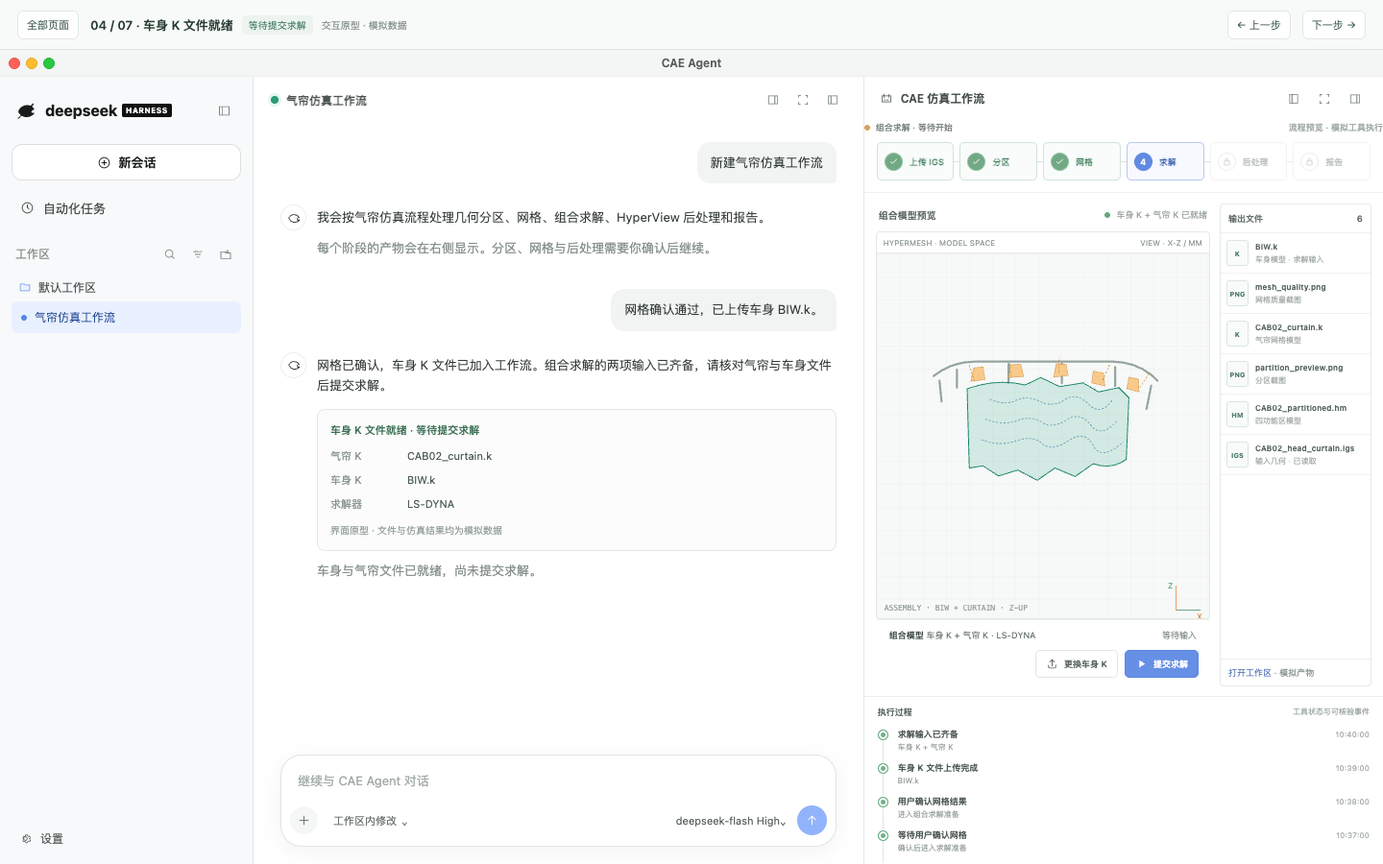
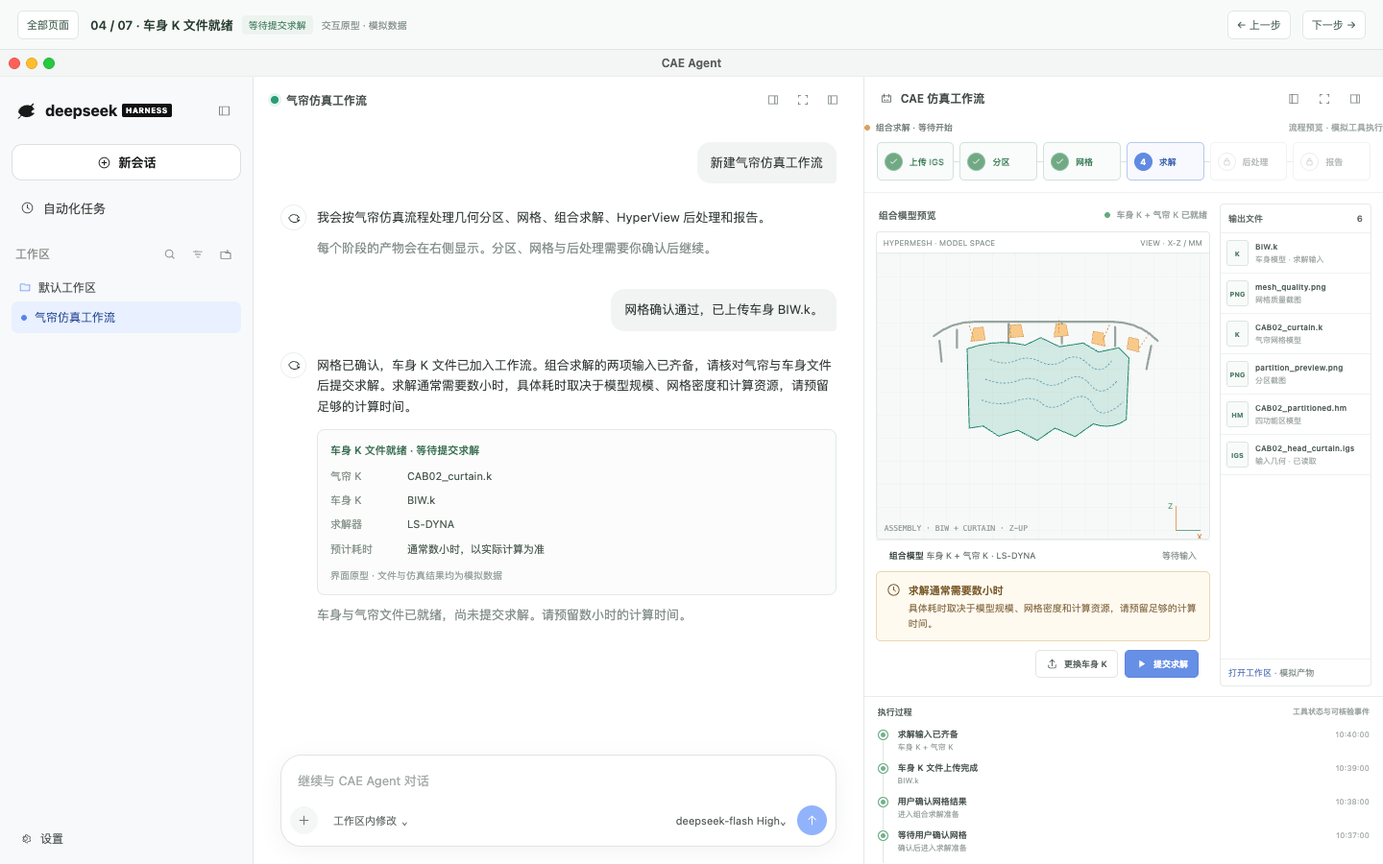
fix: warn users about hours-long solver runs

diff --git a/docs/prototypes/curtain-airbag-workflow/04-body-k-ready.html b/docs/prototypes/curtain-airbag-workflow/04-body-k-ready.html
@@ -187,6 +187,10 @@
     .run-bar.active { display:flex; }
     .run-track { height:3px;flex:1;overflow:hidden;border-radius:2px;background:#e9eeeb; }
     .run-fill { width:0;height:100%;background:#35a78b;transition:width .12s linear; }
+    .solve-notice { flex:0 0 auto;display:flex;align-items:flex-start;gap:8px;margin:2px 0 8px;padding:10px;border:1px solid #ead7b1;border-radius:5px;background:#fffaf0;color:#7a5a2a;line-height:1.55; }
+    .solve-notice svg { flex:0 0 15px;margin-top:1px; }
+    .solve-notice strong { display:block;font-size:11px;font-weight:650; }
+    .solve-notice p { margin:3px 0 0;color:#876d47;font-size:10px; }
     .stage-actions { min-height:39px;display:flex;align-items:center;justify-content:flex-end;gap:7px;padding:0 12px 8px; }
     .action-btn { min-height:29px;display:inline-flex;align-items:center;justify-content:center;gap:6px;padding:0 10px;border:1px solid #e1e6e3;border-radius:5px;background:#fff;color:#59635f;font-size:9px;font-weight:620; }
     .action-btn:hover:not(:disabled) { border-color:#b9c9c2;background:#fafcfb; }
@@ -387,6 +391,7 @@
                 </div>
                 <div class="step-meta"><span><strong id="stageName">上传气帘几何</strong> <span id="stageDescription">支持 .igs / .iges 格式</span></span><span class="meta-state"><i class="live-indicator" id="stageDot" style="display:none"></i><span id="stageState">等待输入</span></span></div>
                 <div class="run-bar" id="runBar"><span id="runLabel">处理中</span><div class="run-track"><div class="run-fill" id="runFill"></div></div><span id="runPercent">0%</span></div>
+                <aside class="solve-notice hidden" id="solveNotice" role="status"><svg width="15" height="15" viewBox="0 0 24 24" fill="none" stroke="currentColor" stroke-width="1.65" stroke-linecap="round" stroke-linejoin="round" aria-hidden="true"><circle cx="12" cy="12" r="9"/><path d="M12 7v5l3 2"/></svg><div><strong id="solveNoticeTitle">求解通常需要数小时</strong><p>具体耗时取决于模型规模、网格密度和计算资源，请预留足够的计算时间。</p></div></aside>
                 <div class="stage-actions" id="stageActions"></div>
               </section>
               <aside class="filelist">
@@ -483,6 +488,9 @@
       $('modeLabel').textContent=state.running?`${step.tool} · ${step.name}执行中`:status==='review'?`${step.name}结果待确认`:i===0?(state.igs?'几何文件已选择':'等待上传几何文件'):status==='done'?(state.status.every(s=>s==='done')?'流程已完成':step.name+'已完成'):status==='needs-file'?'等待车身 K 文件':`${step.name} · ${status==='ready'?'等待开始':'等待前置确认'}`;
       $('modeDot').style.background=state.running?'#5d8ee5':status==='review'?'#d99b52':status==='done'?'#62aa7c':'#d8a25c';
       $('runBar').classList.toggle('active',state.running);
+      $('runLabel').textContent=state.runKind==='solve'?'模拟求解进度':'处理中';
+      $('solveNotice').classList.toggle('hidden',i!==3||status==='done'||status==='locked');
+      $('solveNoticeTitle').textContent=state.running?'求解进行中，通常需要数小时':'求解通常需要数小时';
       renderActions();
     }
     function renderActions(){
@@ -534,12 +542,13 @@
       }
       if(action==='adjust'){$('adjustModal').classList.add('show');$('adjustText').focus()}
       if(action==='approve-mesh'){
-        state.status[2]='done';log('用户确认网格质量','success','车身 K 文件为组合求解必需输入');setCurrent(3,'ready');$('chatStatusCopy').textContent='网格已确认。请上传车身 K 文件，随后可以开始组合求解。';appendAssistant('网格已确认。请在右侧工作流中上传车身 .k 文件。');
+        state.status[2]='done';log('用户确认网格质量','success','车身 K 文件为组合求解必需输入');setCurrent(3,'ready');$('chatStatusCopy').textContent='网格已确认。请上传车身 K 文件，随后可以开始组合求解。求解通常需要数小时，请预留计算时间。';appendAssistant('网格已确认。请在右侧工作流中上传车身 .k 文件。组合求解通常需要数小时，具体耗时取决于模型规模、网格密度和计算资源。');
       }
       if(action==='back-partition'){setCurrent(1,'review')}
       if(action==='choose-body')$('bodyInput').click();
       if(action==='start-solve'){
         if(!state.body){toast('请先上传车身 K 文件');return}
+        $('chatStatusCopy').textContent='组合求解进行中，通常需要数小时，请耐心等待。';appendAssistant('已提交组合求解。求解通常需要数小时，具体耗时取决于模型规模、网格密度和计算资源。可在右侧查看执行进度；本页进度为模拟演示。');
         state.status[3]='running';
         simulate(3,'solve',6700,'done','组合 main.key · LS-DYNA · d3plot 健康检查',()=>{
           file('K',steps[3].file,'车身 + 气帘组合模型');file('D3','d3plot','LS-DYNA 求解结果');
@@ -581,7 +590,7 @@
     $('submitAdjust').addEventListener('click',()=>{const text=$('adjustText').value.trim();if(!text){$('adjustText').focus();return}$('adjustModal').classList.remove('show');state.adjustments++;log('用户提交分区调整','success',text);$('adjustText').value='';simulate(1,'partition',2600,'review','应用调整意见 · 重跑分区 · 更新截图',()=>{file('HM',steps[1].file,'分区更新 v'+(3+state.adjustments));file('PNG','partition_preview_v'+(3+state.adjustments)+'.png','更新后的分区截图');appendAssistant('已按调整意见更新分区。请复核新版截图。')})});
     renderFiles();renderTrace();
 
-    const stagePreview = {"slug": "04-body-k-ready", "title": "车身 K 文件就绪", "badge": "等待提交求解", "current": 3, "status": ["done", "done", "done", "ready", "locked", "locked"], "upto": 3, "user": "网格确认通过，已上传车身 BIW.k。", "message": "网格已确认，车身 K 文件已加入工作流。组合求解的两项输入已齐备，请核对气帘与车身文件后提交求解。", "results": [["气帘 K", "CAB02_curtain.k"], ["车身 K", "BIW.k"], ["求解器", "LS-DYNA"]], "hint": "车身与气帘文件已就绪，尚未提交求解。", "files": [{"type": "K", "name": "BIW.k", "meta": "车身模型 · 求解输入"}, {"type": "PNG", "name": "mesh_quality.png", "meta": "网格质量截图"}, {"type": "K", "name": "CAB02_curtain.k", "meta": "气帘网格模型"}, {"type": "PNG", "name": "partition_preview.png", "meta": "分区截图"}, {"type": "HM", "name": "CAB02_partitioned.hm", "meta": "四功能区模型"}, {"type": "IGS", "name": "CAB02_head_curtain.igs", "meta": "输入几何 · 已读取"}], "traces": [{"text": "求解输入已齐备", "detail": "车身 K + 气帘 K", "kind": "success", "time": "10:40:00"}, {"text": "车身 K 文件上传完成", "detail": "BIW.k", "kind": "success", "time": "10:39:00"}, {"text": "用户确认网格结果", "detail": "进入组合求解准备", "kind": "success", "time": "10:38:00"}, {"text": "等待用户确认网格", "detail": "确认后进入求解准备", "kind": "success", "time": "10:37:00"}, {"text": "HyperMesh MCP · 网格生成完成", "detail": "气帘 K 文件 + 网格截图", "kind": "success", "time": "10:36:00"}, {"text": "用户确认分区结果", "detail": "进入网格阶段", "kind": "success", "time": "10:35:00"}, {"text": "等待用户确认分区", "detail": "确认后才开始网格", "kind": "success", "time": "10:34:00"}, {"text": "分区产物已生成", "detail": ".hm 模型 + 分区截图", "kind": "success", "time": "10:33:00"}, {"text": "HyperMesh MCP · 分区完成", "detail": "四功能区识别完成", "kind": "success", "time": "10:32:00"}, {"text": "几何读取完成", "detail": "轮廓预览已生成", "kind": "success", "time": "10:31:00"}, {"text": "气帘 IGS 文件上传完成", "detail": "CAB02_head_curtain.igs", "kind": "success", "time": "10:30:00"}]};
+    const stagePreview = {"slug": "04-body-k-ready", "title": "车身 K 文件就绪", "badge": "等待提交求解", "current": 3, "status": ["done", "done", "done", "ready", "locked", "locked"], "upto": 3, "user": "网格确认通过，已上传车身 BIW.k。", "message": "网格已确认，车身 K 文件已加入工作流。组合求解的两项输入已齐备，请核对气帘与车身文件后提交求解。求解通常需要数小时，具体耗时取决于模型规模、网格密度和计算资源，请预留足够的计算时间。", "results": [["气帘 K", "CAB02_curtain.k"], ["车身 K", "BIW.k"], ["求解器", "LS-DYNA"], ["预计耗时", "通常数小时，以实际计算为准"]], "hint": "车身与气帘文件已就绪，尚未提交求解。请预留数小时的计算时间。", "files": [{"type": "K", "name": "BIW.k", "meta": "车身模型 · 求解输入"}, {"type": "PNG", "name": "mesh_quality.png", "meta": "网格质量截图"}, {"type": "K", "name": "CAB02_curtain.k", "meta": "气帘网格模型"}, {"type": "PNG", "name": "partition_preview.png", "meta": "分区截图"}, {"type": "HM", "name": "CAB02_partitioned.hm", "meta": "四功能区模型"}, {"type": "IGS", "name": "CAB02_head_curtain.igs", "meta": "输入几何 · 已读取"}], "traces": [{"text": "求解输入已齐备", "detail": "车身 K + 气帘 K", "kind": "success", "time": "10:40:00"}, {"text": "车身 K 文件上传完成", "detail": "BIW.k", "kind": "success", "time": "10:39:00"}, {"text": "用户确认网格结果", "detail": "进入组合求解准备", "kind": "success", "time": "10:38:00"}, {"text": "等待用户确认网格", "detail": "确认后进入求解准备", "kind": "success", "time": "10:37:00"}, {"text": "HyperMesh MCP · 网格生成完成", "detail": "气帘 K 文件 + 网格截图", "kind": "success", "time": "10:36:00"}, {"text": "用户确认分区结果", "detail": "进入网格阶段", "kind": "success", "time": "10:35:00"}, {"text": "等待用户确认分区", "detail": "确认后才开始网格", "kind": "success", "time": "10:34:00"}, {"text": "分区产物已生成", "detail": ".hm 模型 + 分区截图", "kind": "success", "time": "10:33:00"}, {"text": "HyperMesh MCP · 分区完成", "detail": "四功能区识别完成", "kind": "success", "time": "10:32:00"}, {"text": "几何读取完成", "detail": "轮廓预览已生成", "kind": "success", "time": "10:31:00"}, {"text": "气帘 IGS 文件上传完成", "detail": "CAB02_head_curtain.igs", "kind": "success", "time": "10:30:00"}]};
     function initializeStagePreview() {
       activate();
       Object.assign(state, { current:stagePreview.current, status:stagePreview.status.slice(), igs:'CAB02_head_curtain.igs',

diff --git a/docs/prototypes/curtain-airbag-workflow/01-igs-uploaded.html b/docs/prototypes/curtain-airbag-workflow/01-igs-uploaded.html
@@ -187,6 +187,10 @@
     .run-bar.active { display:flex; }
     .run-track { height:3px;flex:1;overflow:hidden;border-radius:2px;background:#e9eeeb; }
     .run-fill { width:0;height:100%;background:#35a78b;transition:width .12s linear; }
+    .solve-notice { flex:0 0 auto;display:flex;align-items:flex-start;gap:8px;margin:2px 0 8px;padding:10px;border:1px solid #ead7b1;border-radius:5px;background:#fffaf0;color:#7a5a2a;line-height:1.55; }
+    .solve-notice svg { flex:0 0 15px;margin-top:1px; }
+    .solve-notice strong { display:block;font-size:11px;font-weight:650; }
+    .solve-notice p { margin:3px 0 0;color:#876d47;font-size:10px; }
     .stage-actions { min-height:39px;display:flex;align-items:center;justify-content:flex-end;gap:7px;padding:0 12px 8px; }
     .action-btn { min-height:29px;display:inline-flex;align-items:center;justify-content:center;gap:6px;padding:0 10px;border:1px solid #e1e6e3;border-radius:5px;background:#fff;color:#59635f;font-size:9px;font-weight:620; }
     .action-btn:hover:not(:disabled) { border-color:#b9c9c2;background:#fafcfb; }
@@ -387,6 +391,7 @@
                 </div>
                 <div class="step-meta"><span><strong id="stageName">上传气帘几何</strong> <span id="stageDescription">支持 .igs / .iges 格式</span></span><span class="meta-state"><i class="live-indicator" id="stageDot" style="display:none"></i><span id="stageState">等待输入</span></span></div>
                 <div class="run-bar" id="runBar"><span id="runLabel">处理中</span><div class="run-track"><div class="run-fill" id="runFill"></div></div><span id="runPercent">0%</span></div>
+                <aside class="solve-notice hidden" id="solveNotice" role="status"><svg width="15" height="15" viewBox="0 0 24 24" fill="none" stroke="currentColor" stroke-width="1.65" stroke-linecap="round" stroke-linejoin="round" aria-hidden="true"><circle cx="12" cy="12" r="9"/><path d="M12 7v5l3 2"/></svg><div><strong id="solveNoticeTitle">求解通常需要数小时</strong><p>具体耗时取决于模型规模、网格密度和计算资源，请预留足够的计算时间。</p></div></aside>
                 <div class="stage-actions" id="stageActions"></div>
               </section>
               <aside class="filelist">
@@ -483,6 +488,9 @@
       $('modeLabel').textContent=state.running?`${step.tool} · ${step.name}执行中`:status==='review'?`${step.name}结果待确认`:i===0?(state.igs?'几何文件已选择':'等待上传几何文件'):status==='done'?(state.status.every(s=>s==='done')?'流程已完成':step.name+'已完成'):status==='needs-file'?'等待车身 K 文件':`${step.name} · ${status==='ready'?'等待开始':'等待前置确认'}`;
       $('modeDot').style.background=state.running?'#5d8ee5':status==='review'?'#d99b52':status==='done'?'#62aa7c':'#d8a25c';
       $('runBar').classList.toggle('active',state.running);
+      $('runLabel').textContent=state.runKind==='solve'?'模拟求解进度':'处理中';
+      $('solveNotice').classList.toggle('hidden',i!==3||status==='done'||status==='locked');
+      $('solveNoticeTitle').textContent=state.running?'求解进行中，通常需要数小时':'求解通常需要数小时';
       renderActions();
     }
     function renderActions(){
@@ -534,12 +542,13 @@
       }
       if(action==='adjust'){$('adjustModal').classList.add('show');$('adjustText').focus()}
       if(action==='approve-mesh'){
-        state.status[2]='done';log('用户确认网格质量','success','车身 K 文件为组合求解必需输入');setCurrent(3,'ready');$('chatStatusCopy').textContent='网格已确认。请上传车身 K 文件，随后可以开始组合求解。';appendAssistant('网格已确认。请在右侧工作流中上传车身 .k 文件。');
+        state.status[2]='done';log('用户确认网格质量','success','车身 K 文件为组合求解必需输入');setCurrent(3,'ready');$('chatStatusCopy').textContent='网格已确认。请上传车身 K 文件，随后可以开始组合求解。求解通常需要数小时，请预留计算时间。';appendAssistant('网格已确认。请在右侧工作流中上传车身 .k 文件。组合求解通常需要数小时，具体耗时取决于模型规模、网格密度和计算资源。');
       }
       if(action==='back-partition'){setCurrent(1,'review')}
       if(action==='choose-body')$('bodyInput').click();
       if(action==='start-solve'){
         if(!state.body){toast('请先上传车身 K 文件');return}
+        $('chatStatusCopy').textContent='组合求解进行中，通常需要数小时，请耐心等待。';appendAssistant('已提交组合求解。求解通常需要数小时，具体耗时取决于模型规模、网格密度和计算资源。可在右侧查看执行进度；本页进度为模拟演示。');
         state.status[3]='running';
         simulate(3,'solve',6700,'done','组合 main.key · LS-DYNA · d3plot 健康检查',()=>{
           file('K',steps[3].file,'车身 + 气帘组合模型');file('D3','d3plot','LS-DYNA 求解结果');

diff --git a/docs/prototypes/curtain-airbag-workflow/02-partition-completed.html b/docs/prototypes/curtain-airbag-workflow/02-partition-completed.html
@@ -187,6 +187,10 @@
     .run-bar.active { display:flex; }
     .run-track { height:3px;flex:1;overflow:hidden;border-radius:2px;background:#e9eeeb; }
     .run-fill { width:0;height:100%;background:#35a78b;transition:width .12s linear; }
+    .solve-notice { flex:0 0 auto;display:flex;align-items:flex-start;gap:8px;margin:2px 0 8px;padding:10px;border:1px solid #ead7b1;border-radius:5px;background:#fffaf0;color:#7a5a2a;line-height:1.55; }
+    .solve-notice svg { flex:0 0 15px;margin-top:1px; }
+    .solve-notice strong { display:block;font-size:11px;font-weight:650; }
+    .solve-notice p { margin:3px 0 0;color:#876d47;font-size:10px; }
     .stage-actions { min-height:39px;display:flex;align-items:center;justify-content:flex-end;gap:7px;padding:0 12px 8px; }
     .action-btn { min-height:29px;display:inline-flex;align-items:center;justify-content:center;gap:6px;padding:0 10px;border:1px solid #e1e6e3;border-radius:5px;background:#fff;color:#59635f;font-size:9px;font-weight:620; }
     .action-btn:hover:not(:disabled) { border-color:#b9c9c2;background:#fafcfb; }
@@ -387,6 +391,7 @@
                 </div>
                 <div class="step-meta"><span><strong id="stageName">上传气帘几何</strong> <span id="stageDescription">支持 .igs / .iges 格式</span></span><span class="meta-state"><i class="live-indicator" id="stageDot" style="display:none"></i><span id="stageState">等待输入</span></span></div>
                 <div class="run-bar" id="runBar"><span id="runLabel">处理中</span><div class="run-track"><div class="run-fill" id="runFill"></div></div><span id="runPercent">0%</span></div>
+                <aside class="solve-notice hidden" id="solveNotice" role="status"><svg width="15" height="15" viewBox="0 0 24 24" fill="none" stroke="currentColor" stroke-width="1.65" stroke-linecap="round" stroke-linejoin="round" aria-hidden="true"><circle cx="12" cy="12" r="9"/><path d="M12 7v5l3 2"/></svg><div><strong id="solveNoticeTitle">求解通常需要数小时</strong><p>具体耗时取决于模型规模、网格密度和计算资源，请预留足够的计算时间。</p></div></aside>
                 <div class="stage-actions" id="stageActions"></div>
               </section>
               <aside class="filelist">
@@ -483,6 +488,9 @@
       $('modeLabel').textContent=state.running?`${step.tool} · ${step.name}执行中`:status==='review'?`${step.name}结果待确认`:i===0?(state.igs?'几何文件已选择':'等待上传几何文件'):status==='done'?(state.status.every(s=>s==='done')?'流程已完成':step.name+'已完成'):status==='needs-file'?'等待车身 K 文件':`${step.name} · ${status==='ready'?'等待开始':'等待前置确认'}`;
       $('modeDot').style.background=state.running?'#5d8ee5':status==='review'?'#d99b52':status==='done'?'#62aa7c':'#d8a25c';
       $('runBar').classList.toggle('active',state.running);
+      $('runLabel').textContent=state.runKind==='solve'?'模拟求解进度':'处理中';
+      $('solveNotice').classList.toggle('hidden',i!==3||status==='done'||status==='locked');
+      $('solveNoticeTitle').textContent=state.running?'求解进行中，通常需要数小时':'求解通常需要数小时';
       renderActions();
     }
     function renderActions(){
@@ -534,12 +542,13 @@
       }
       if(action==='adjust'){$('adjustModal').classList.add('show');$('adjustText').focus()}
       if(action==='approve-mesh'){
-        state.status[2]='done';log('用户确认网格质量','success','车身 K 文件为组合求解必需输入');setCurrent(3,'ready');$('chatStatusCopy').textContent='网格已确认。请上传车身 K 文件，随后可以开始组合求解。';appendAssistant('网格已确认。请在右侧工作流中上传车身 .k 文件。');
+        state.status[2]='done';log('用户确认网格质量','success','车身 K 文件为组合求解必需输入');setCurrent(3,'ready');$('chatStatusCopy').textContent='网格已确认。请上传车身 K 文件，随后可以开始组合求解。求解通常需要数小时，请预留计算时间。';appendAssistant('网格已确认。请在右侧工作流中上传车身 .k 文件。组合求解通常需要数小时，具体耗时取决于模型规模、网格密度和计算资源。');
       }
       if(action==='back-partition'){setCurrent(1,'review')}
       if(action==='choose-body')$('bodyInput').click();
       if(action==='start-solve'){
         if(!state.body){toast('请先上传车身 K 文件');return}
+        $('chatStatusCopy').textContent='组合求解进行中，通常需要数小时，请耐心等待。';appendAssistant('已提交组合求解。求解通常需要数小时，具体耗时取决于模型规模、网格密度和计算资源。可在右侧查看执行进度；本页进度为模拟演示。');
         state.status[3]='running';
         simulate(3,'solve',6700,'done','组合 main.key · LS-DYNA · d3plot 健康检查',()=>{
           file('K',steps[3].file,'车身 + 气帘组合模型');file('D3','d3plot','LS-DYNA 求解结果');

diff --git a/docs/prototypes/curtain-airbag-workflow/03-mesh-completed.html b/docs/prototypes/curtain-airbag-workflow/03-mesh-completed.html
@@ -187,6 +187,10 @@
     .run-bar.active { display:flex; }
     .run-track { height:3px;flex:1;overflow:hidden;border-radius:2px;background:#e9eeeb; }
     .run-fill { width:0;height:100%;background:#35a78b;transition:width .12s linear; }
+    .solve-notice { flex:0 0 auto;display:flex;align-items:flex-start;gap:8px;margin:2px 0 8px;padding:10px;border:1px solid #ead7b1;border-radius:5px;background:#fffaf0;color:#7a5a2a;line-height:1.55; }
+    .solve-notice svg { flex:0 0 15px;margin-top:1px; }
+    .solve-notice strong { display:block;font-size:11px;font-weight:650; }
+    .solve-notice p { margin:3px 0 0;color:#876d47;font-size:10px; }
     .stage-actions { min-height:39px;display:flex;align-items:center;justify-content:flex-end;gap:7px;padding:0 12px 8px; }
     .action-btn { min-height:29px;display:inline-flex;align-items:center;justify-content:center;gap:6px;padding:0 10px;border:1px solid #e1e6e3;border-radius:5px;background:#fff;color:#59635f;font-size:9px;font-weight:620; }
     .action-btn:hover:not(:disabled) { border-color:#b9c9c2;background:#fafcfb; }
@@ -387,6 +391,7 @@
                 </div>
                 <div class="step-meta"><span><strong id="stageName">上传气帘几何</strong> <span id="stageDescription">支持 .igs / .iges 格式</span></span><span class="meta-state"><i class="live-indicator" id="stageDot" style="display:none"></i><span id="stageState">等待输入</span></span></div>
                 <div class="run-bar" id="runBar"><span id="runLabel">处理中</span><div class="run-track"><div class="run-fill" id="runFill"></div></div><span id="runPercent">0%</span></div>
+                <aside class="solve-notice hidden" id="solveNotice" role="status"><svg width="15" height="15" viewBox="0 0 24 24" fill="none" stroke="currentColor" stroke-width="1.65" stroke-linecap="round" stroke-linejoin="round" aria-hidden="true"><circle cx="12" cy="12" r="9"/><path d="M12 7v5l3 2"/></svg><div><strong id="solveNoticeTitle">求解通常需要数小时</strong><p>具体耗时取决于模型规模、网格密度和计算资源，请预留足够的计算时间。</p></div></aside>
                 <div class="stage-actions" id="stageActions"></div>
               </section>
               <aside class="filelist">
@@ -483,6 +488,9 @@
       $('modeLabel').textContent=state.running?`${step.tool} · ${step.name}执行中`:status==='review'?`${step.name}结果待确认`:i===0?(state.igs?'几何文件已选择':'等待上传几何文件'):status==='done'?(state.status.every(s=>s==='done')?'流程已完成':step.name+'已完成'):status==='needs-file'?'等待车身 K 文件':`${step.name} · ${status==='ready'?'等待开始':'等待前置确认'}`;
       $('modeDot').style.background=state.running?'#5d8ee5':status==='review'?'#d99b52':status==='done'?'#62aa7c':'#d8a25c';
       $('runBar').classList.toggle('active',state.running);
+      $('runLabel').textContent=state.runKind==='solve'?'模拟求解进度':'处理中';
+      $('solveNotice').classList.toggle('hidden',i!==3||status==='done'||status==='locked');
+      $('solveNoticeTitle').textContent=state.running?'求解进行中，通常需要数小时':'求解通常需要数小时';
       renderActions();
     }
     function renderActions(){
@@ -534,12 +542,13 @@
       }
       if(action==='adjust'){$('adjustModal').classList.add('show');$('adjustText').focus()}
       if(action==='approve-mesh'){
-        state.status[2]='done';log('用户确认网格质量','success','车身 K 文件为组合求解必需输入');setCurrent(3,'ready');$('chatStatusCopy').textContent='网格已确认。请上传车身 K 文件，随后可以开始组合求解。';appendAssistant('网格已确认。请在右侧工作流中上传车身 .k 文件。');
+        state.status[2]='done';log('用户确认网格质量','success','车身 K 文件为组合求解必需输入');setCurrent(3,'ready');$('chatStatusCopy').textContent='网格已确认。请上传车身 K 文件，随后可以开始组合求解。求解通常需要数小时，请预留计算时间。';appendAssistant('网格已确认。请在右侧工作流中上传车身 .k 文件。组合求解通常需要数小时，具体耗时取决于模型规模、网格密度和计算资源。');
       }
       if(action==='back-partition'){setCurrent(1,'review')}
       if(action==='choose-body')$('bodyInput').click();
       if(action==='start-solve'){
         if(!state.body){toast('请先上传车身 K 文件');return}
+        $('chatStatusCopy').textContent='组合求解进行中，通常需要数小时，请耐心等待。';appendAssistant('已提交组合求解。求解通常需要数小时，具体耗时取决于模型规模、网格密度和计算资源。可在右侧查看执行进度；本页进度为模拟演示。');
         state.status[3]='running';
         simulate(3,'solve',6700,'done','组合 main.key · LS-DYNA · d3plot 健康检查',()=>{
           file('K',steps[3].file,'车身 + 气帘组合模型');file('D3','d3plot','LS-DYNA 求解结果');

diff --git a/docs/prototypes/curtain-airbag-workflow/05-solve-completed.html b/docs/prototypes/curtain-airbag-workflow/05-solve-completed.html
@@ -187,6 +187,10 @@
     .run-bar.active { display:flex; }
     .run-track { height:3px;flex:1;overflow:hidden;border-radius:2px;background:#e9eeeb; }
     .run-fill { width:0;height:100%;background:#35a78b;transition:width .12s linear; }
+    .solve-notice { flex:0 0 auto;display:flex;align-items:flex-start;gap:8px;margin:2px 0 8px;padding:10px;border:1px solid #ead7b1;border-radius:5px;background:#fffaf0;color:#7a5a2a;line-height:1.55; }
+    .solve-notice svg { flex:0 0 15px;margin-top:1px; }
+    .solve-notice strong { display:block;font-size:11px;font-weight:650; }
+    .solve-notice p { margin:3px 0 0;color:#876d47;font-size:10px; }
     .stage-actions { min-height:39px;display:flex;align-items:center;justify-content:flex-end;gap:7px;padding:0 12px 8px; }
     .action-btn { min-height:29px;display:inline-flex;align-items:center;justify-content:center;gap:6px;padding:0 10px;border:1px solid #e1e6e3;border-radius:5px;background:#fff;color:#59635f;font-size:9px;font-weight:620; }
     .action-btn:hover:not(:disabled) { border-color:#b9c9c2;background:#fafcfb; }
@@ -387,6 +391,7 @@
                 </div>
                 <div class="step-meta"><span><strong id="stageName">上传气帘几何</strong> <span id="stageDescription">支持 .igs / .iges 格式</span></span><span class="meta-state"><i class="live-indicator" id="stageDot" style="display:none"></i><span id="stageState">等待输入</span></span></div>
                 <div class="run-bar" id="runBar"><span id="runLabel">处理中</span><div class="run-track"><div class="run-fill" id="runFill"></div></div><span id="runPercent">0%</span></div>
+                <aside class="solve-notice hidden" id="solveNotice" role="status"><svg width="15" height="15" viewBox="0 0 24 24" fill="none" stroke="currentColor" stroke-width="1.65" stroke-linecap="round" stroke-linejoin="round" aria-hidden="true"><circle cx="12" cy="12" r="9"/><path d="M12 7v5l3 2"/></svg><div><strong id="solveNoticeTitle">求解通常需要数小时</strong><p>具体耗时取决于模型规模、网格密度和计算资源，请预留足够的计算时间。</p></div></aside>
                 <div class="stage-actions" id="stageActions"></div>
               </section>
               <aside class="filelist">
@@ -483,6 +488,9 @@
       $('modeLabel').textContent=state.running?`${step.tool} · ${step.name}执行中`:status==='review'?`${step.name}结果待确认`:i===0?(state.igs?'几何文件已选择':'等待上传几何文件'):status==='done'?(state.status.every(s=>s==='done')?'流程已完成':step.name+'已完成'):status==='needs-file'?'等待车身 K 文件':`${step.name} · ${status==='ready'?'等待开始':'等待前置确认'}`;
       $('modeDot').style.background=state.running?'#5d8ee5':status==='review'?'#d99b52':status==='done'?'#62aa7c':'#d8a25c';
       $('runBar').classList.toggle('active',state.running);
+      $('runLabel').textContent=state.runKind==='solve'?'模拟求解进度':'处理中';
+      $('solveNotice').classList.toggle('hidden',i!==3||status==='done'||status==='locked');
+      $('solveNoticeTitle').textContent=state.running?'求解进行中，通常需要数小时':'求解通常需要数小时';
       renderActions();
     }
     function renderActions(){
@@ -534,12 +542,13 @@
       }
       if(action==='adjust'){$('adjustModal').classList.add('show');$('adjustText').focus()}
       if(action==='approve-mesh'){
-        state.status[2]='done';log('用户确认网格质量','success','车身 K 文件为组合求解必需输入');setCurrent(3,'ready');$('chatStatusCopy').textContent='网格已确认。请上传车身 K 文件，随后可以开始组合求解。';appendAssistant('网格已确认。请在右侧工作流中上传车身 .k 文件。');
+        state.status[2]='done';log('用户确认网格质量','success','车身 K 文件为组合求解必需输入');setCurrent(3,'ready');$('chatStatusCopy').textContent='网格已确认。请上传车身 K 文件，随后可以开始组合求解。求解通常需要数小时，请预留计算时间。';appendAssistant('网格已确认。请在右侧工作流中上传车身 .k 文件。组合求解通常需要数小时，具体耗时取决于模型规模、网格密度和计算资源。');
       }
       if(action==='back-partition'){setCurrent(1,'review')}
       if(action==='choose-body')$('bodyInput').click();
       if(action==='start-solve'){
         if(!state.body){toast('请先上传车身 K 文件');return}
+        $('chatStatusCopy').textContent='组合求解进行中，通常需要数小时，请耐心等待。';appendAssistant('已提交组合求解。求解通常需要数小时，具体耗时取决于模型规模、网格密度和计算资源。可在右侧查看执行进度；本页进度为模拟演示。');
         state.status[3]='running';
         simulate(3,'solve',6700,'done','组合 main.key · LS-DYNA · d3plot 健康检查',()=>{
           file('K',steps[3].file,'车身 + 气帘组合模型');file('D3','d3plot','LS-DYNA 求解结果');

diff --git a/docs/prototypes/curtain-airbag-workflow/06-postprocess-completed.html b/docs/prototypes/curtain-airbag-workflow/06-postprocess-completed.html
@@ -187,6 +187,10 @@
     .run-bar.active { display:flex; }
     .run-track { height:3px;flex:1;overflow:hidden;border-radius:2px;background:#e9eeeb; }
     .run-fill { width:0;height:100%;background:#35a78b;transition:width .12s linear; }
+    .solve-notice { flex:0 0 auto;display:flex;align-items:flex-start;gap:8px;margin:2px 0 8px;padding:10px;border:1px solid #ead7b1;border-radius:5px;background:#fffaf0;color:#7a5a2a;line-height:1.55; }
+    .solve-notice svg { flex:0 0 15px;margin-top:1px; }
+    .solve-notice strong { display:block;font-size:11px;font-weight:650; }
+    .solve-notice p { margin:3px 0 0;color:#876d47;font-size:10px; }
     .stage-actions { min-height:39px;display:flex;align-items:center;justify-content:flex-end;gap:7px;padding:0 12px 8px; }
     .action-btn { min-height:29px;display:inline-flex;align-items:center;justify-content:center;gap:6px;padding:0 10px;border:1px solid #e1e6e3;border-radius:5px;background:#fff;color:#59635f;font-size:9px;font-weight:620; }
     .action-btn:hover:not(:disabled) { border-color:#b9c9c2;background:#fafcfb; }
@@ -387,6 +391,7 @@
                 </div>
                 <div class="step-meta"><span><strong id="stageName">上传气帘几何</strong> <span id="stageDescription">支持 .igs / .iges 格式</span></span><span class="meta-state"><i class="live-indicator" id="stageDot" style="display:none"></i><span id="stageState">等待输入</span></span></div>
                 <div class="run-bar" id="runBar"><span id="runLabel">处理中</span><div class="run-track"><div class="run-fill" id="runFill"></div></div><span id="runPercent">0%</span></div>
+                <aside class="solve-notice hidden" id="solveNotice" role="status"><svg width="15" height="15" viewBox="0 0 24 24" fill="none" stroke="currentColor" stroke-width="1.65" stroke-linecap="round" stroke-linejoin="round" aria-hidden="true"><circle cx="12" cy="12" r="9"/><path d="M12 7v5l3 2"/></svg><div><strong id="solveNoticeTitle">求解通常需要数小时</strong><p>具体耗时取决于模型规模、网格密度和计算资源，请预留足够的计算时间。</p></div></aside>
                 <div class="stage-actions" id="stageActions"></div>
               </section>
               <aside class="filelist">
@@ -483,6 +488,9 @@
       $('modeLabel').textContent=state.running?`${step.tool} · ${step.name}执行中`:status==='review'?`${step.name}结果待确认`:i===0?(state.igs?'几何文件已选择':'等待上传几何文件'):status==='done'?(state.status.every(s=>s==='done')?'流程已完成':step.name+'已完成'):status==='needs-file'?'等待车身 K 文件':`${step.name} · ${status==='ready'?'等待开始':'等待前置确认'}`;
       $('modeDot').style.background=state.running?'#5d8ee5':status==='review'?'#d99b52':status==='done'?'#62aa7c':'#d8a25c';
       $('runBar').classList.toggle('active',state.running);
+      $('runLabel').textContent=state.runKind==='solve'?'模拟求解进度':'处理中';
+      $('solveNotice').classList.toggle('hidden',i!==3||status==='done'||status==='locked');
+      $('solveNoticeTitle').textContent=state.running?'求解进行中，通常需要数小时':'求解通常需要数小时';
       renderActions();
     }
     function renderActions(){
@@ -534,12 +542,13 @@
       }
       if(action==='adjust'){$('adjustModal').classList.add('show');$('adjustText').focus()}
       if(action==='approve-mesh'){
-        state.status[2]='done';log('用户确认网格质量','success','车身 K 文件为组合求解必需输入');setCurrent(3,'ready');$('chatStatusCopy').textContent='网格已确认。请上传车身 K 文件，随后可以开始组合求解。';appendAssistant('网格已确认。请在右侧工作流中上传车身 .k 文件。');
+        state.status[2]='done';log('用户确认网格质量','success','车身 K 文件为组合求解必需输入');setCurrent(3,'ready');$('chatStatusCopy').textContent='网格已确认。请上传车身 K 文件，随后可以开始组合求解。求解通常需要数小时，请预留计算时间。';appendAssistant('网格已确认。请在右侧工作流中上传车身 .k 文件。组合求解通常需要数小时，具体耗时取决于模型规模、网格密度和计算资源。');
       }
       if(action==='back-partition'){setCurrent(1,'review')}
       if(action==='choose-body')$('bodyInput').click();
       if(action==='start-solve'){
         if(!state.body){toast('请先上传车身 K 文件');return}
+        $('chatStatusCopy').textContent='组合求解进行中，通常需要数小时，请耐心等待。';appendAssistant('已提交组合求解。求解通常需要数小时，具体耗时取决于模型规模、网格密度和计算资源。可在右侧查看执行进度；本页进度为模拟演示。');
         state.status[3]='running';
         simulate(3,'solve',6700,'done','组合 main.key · LS-DYNA · d3plot 健康检查',()=>{
           file('K',steps[3].file,'车身 + 气帘组合模型');file('D3','d3plot','LS-DYNA 求解结果');

diff --git a/docs/prototypes/curtain-airbag-workflow/07-report-completed.html b/docs/prototypes/curtain-airbag-workflow/07-report-completed.html
@@ -187,6 +187,10 @@
     .run-bar.active { display:flex; }
     .run-track { height:3px;flex:1;overflow:hidden;border-radius:2px;background:#e9eeeb; }
     .run-fill { width:0;height:100%;background:#35a78b;transition:width .12s linear; }
+    .solve-notice { flex:0 0 auto;display:flex;align-items:flex-start;gap:8px;margin:2px 0 8px;padding:10px;border:1px solid #ead7b1;border-radius:5px;background:#fffaf0;color:#7a5a2a;line-height:1.55; }
+    .solve-notice svg { flex:0 0 15px;margin-top:1px; }
+    .solve-notice strong { display:block;font-size:11px;font-weight:650; }
+    .solve-notice p { margin:3px 0 0;color:#876d47;font-size:10px; }
     .stage-actions { min-height:39px;display:flex;align-items:center;justify-content:flex-end;gap:7px;padding:0 12px 8px; }
     .action-btn { min-height:29px;display:inline-flex;align-items:center;justify-content:center;gap:6px;padding:0 10px;border:1px solid #e1e6e3;border-radius:5px;background:#fff;color:#59635f;font-size:9px;font-weight:620; }
     .action-btn:hover:not(:disabled) { border-color:#b9c9c2;background:#fafcfb; }
@@ -387,6 +391,7 @@
                 </div>
                 <div class="step-meta"><span><strong id="stageName">上传气帘几何</strong> <span id="stageDescription">支持 .igs / .iges 格式</span></span><span class="meta-state"><i class="live-indicator" id="stageDot" style="display:none"></i><span id="stageState">等待输入</span></span></div>
                 <div class="run-bar" id="runBar"><span id="runLabel">处理中</span><div class="run-track"><div class="run-fill" id="runFill"></div></div><span id="runPercent">0%</span></div>
+                <aside class="solve-notice hidden" id="solveNotice" role="status"><svg width="15" height="15" viewBox="0 0 24 24" fill="none" stroke="currentColor" stroke-width="1.65" stroke-linecap="round" stroke-linejoin="round" aria-hidden="true"><circle cx="12" cy="12" r="9"/><path d="M12 7v5l3 2"/></svg><div><strong id="solveNoticeTitle">求解通常需要数小时</strong><p>具体耗时取决于模型规模、网格密度和计算资源，请预留足够的计算时间。</p></div></aside>
                 <div class="stage-actions" id="stageActions"></div>
               </section>
               <aside class="filelist">
@@ -483,6 +488,9 @@
       $('modeLabel').textContent=state.running?`${step.tool} · ${step.name}执行中`:status==='review'?`${step.name}结果待确认`:i===0?(state.igs?'几何文件已选择':'等待上传几何文件'):status==='done'?(state.status.every(s=>s==='done')?'流程已完成':step.name+'已完成'):status==='needs-file'?'等待车身 K 文件':`${step.name} · ${status==='ready'?'等待开始':'等待前置确认'}`;
       $('modeDot').style.background=state.running?'#5d8ee5':status==='review'?'#d99b52':status==='done'?'#62aa7c':'#d8a25c';
       $('runBar').classList.toggle('active',state.running);
+      $('runLabel').textContent=state.runKind==='solve'?'模拟求解进度':'处理中';
+      $('solveNotice').classList.toggle('hidden',i!==3||status==='done'||status==='locked');
+      $('solveNoticeTitle').textContent=state.running?'求解进行中，通常需要数小时':'求解通常需要数小时';
       renderActions();
     }
     function renderActions(){
@@ -534,12 +542,13 @@
       }
       if(action==='adjust'){$('adjustModal').classList.add('show');$('adjustText').focus()}
       if(action==='approve-mesh'){
-        state.status[2]='done';log('用户确认网格质量','success','车身 K 文件为组合求解必需输入');setCurrent(3,'ready');$('chatStatusCopy').textContent='网格已确认。请上传车身 K 文件，随后可以开始组合求解。';appendAssistant('网格已确认。请在右侧工作流中上传车身 .k 文件。');
+        state.status[2]='done';log('用户确认网格质量','success','车身 K 文件为组合求解必需输入');setCurrent(3,'ready');$('chatStatusCopy').textContent='网格已确认。请上传车身 K 文件，随后可以开始组合求解。求解通常需要数小时，请预留计算时间。';appendAssistant('网格已确认。请在右侧工作流中上传车身 .k 文件。组合求解通常需要数小时，具体耗时取决于模型规模、网格密度和计算资源。');
       }
       if(action==='back-partition'){setCurrent(1,'review')}
       if(action==='choose-body')$('bodyInput').click();
       if(action==='start-solve'){
         if(!state.body){toast('请先上传车身 K 文件');return}
+        $('chatStatusCopy').textContent='组合求解进行中，通常需要数小时，请耐心等待。';appendAssistant('已提交组合求解。求解通常需要数小时，具体耗时取决于模型规模、网格密度和计算资源。可在右侧查看执行进度；本页进度为模拟演示。');
         state.status[3]='running';
         simulate(3,'solve',6700,'done','组合 main.key · LS-DYNA · d3plot 健康检查',()=>{
           file('K',steps[3].file,'车身 + 气帘组合模型');file('D3','d3plot','LS-DYNA 求解结果');

diff --git a/docs/prototypes/curtain-airbag-workflow/interactive.html b/docs/prototypes/curtain-airbag-workflow/interactive.html
@@ -187,6 +187,10 @@
     .run-bar.active { display:flex; }
     .run-track { height:3px;flex:1;overflow:hidden;border-radius:2px;background:#e9eeeb; }
     .run-fill { width:0;height:100%;background:#35a78b;transition:width .12s linear; }
+    .solve-notice { flex:0 0 auto;display:flex;align-items:flex-start;gap:8px;margin:2px 0 8px;padding:10px;border:1px solid #ead7b1;border-radius:5px;background:#fffaf0;color:#7a5a2a;line-height:1.55; }
+    .solve-notice svg { flex:0 0 15px;margin-top:1px; }
+    .solve-notice strong { display:block;font-size:11px;font-weight:650; }
+    .solve-notice p { margin:3px 0 0;color:#876d47;font-size:10px; }
     .stage-actions { min-height:39px;display:flex;align-items:center;justify-content:flex-end;gap:7px;padding:0 12px 8px; }
     .action-btn { min-height:29px;display:inline-flex;align-items:center;justify-content:center;gap:6px;padding:0 10px;border:1px solid #e1e6e3;border-radius:5px;background:#fff;color:#59635f;font-size:9px;font-weight:620; }
     .action-btn:hover:not(:disabled) { border-color:#b9c9c2;background:#fafcfb; }
@@ -339,6 +343,7 @@
                 </div>
                 <div class="step-meta"><span><strong id="stageName">上传气帘几何</strong> <span id="stageDescription">支持 .igs / .iges 格式</span></span><span class="meta-state"><i class="live-indicator" id="stageDot" style="display:none"></i><span id="stageState">等待输入</span></span></div>
                 <div class="run-bar" id="runBar"><span id="runLabel">处理中</span><div class="run-track"><div class="run-fill" id="runFill"></div></div><span id="runPercent">0%</span></div>
+                <aside class="solve-notice hidden" id="solveNotice" role="status"><svg width="15" height="15" viewBox="0 0 24 24" fill="none" stroke="currentColor" stroke-width="1.65" stroke-linecap="round" stroke-linejoin="round" aria-hidden="true"><circle cx="12" cy="12" r="9"/><path d="M12 7v5l3 2"/></svg><div><strong id="solveNoticeTitle">求解通常需要数小时</strong><p>具体耗时取决于模型规模、网格密度和计算资源，请预留足够的计算时间。</p></div></aside>
                 <div class="stage-actions" id="stageActions"></div>
               </section>
               <aside class="filelist">
@@ -435,6 +440,9 @@
       $('modeLabel').textContent=state.running?`${step.tool} · ${step.name}执行中`:status==='review'?`${step.name}结果待确认`:i===0?(state.igs?'几何文件已选择':'等待上传几何文件'):status==='done'?'流程已完成':status==='needs-file'?'等待车身 K 文件':`${step.name} · ${status==='ready'?'等待开始':'等待前置确认'}`;
       $('modeDot').style.background=state.running?'#5d8ee5':status==='review'?'#d99b52':status==='done'?'#62aa7c':'#d8a25c';
       $('runBar').classList.toggle('active',state.running);
+      $('runLabel').textContent=state.runKind==='solve'?'模拟求解进度':'处理中';
+      $('solveNotice').classList.toggle('hidden',i!==3||status==='done'||status==='locked');
+      $('solveNoticeTitle').textContent=state.running?'求解进行中，通常需要数小时':'求解通常需要数小时';
       renderActions();
     }
     function renderActions(){
@@ -486,12 +494,13 @@
       }
       if(action==='adjust'){$('adjustModal').classList.add('show');$('adjustText').focus()}
       if(action==='approve-mesh'){
-        state.status[2]='done';log('用户确认网格质量','success','车身 K 文件为组合求解必需输入');setCurrent(3,'ready');$('chatStatusCopy').textContent='网格已确认。请上传车身 K 文件，随后可以开始组合求解。';appendAssistant('网格已确认。请在右侧工作流中上传车身 .k 文件。');
+        state.status[2]='done';log('用户确认网格质量','success','车身 K 文件为组合求解必需输入');setCurrent(3,'ready');$('chatStatusCopy').textContent='网格已确认。请上传车身 K 文件，随后可以开始组合求解。求解通常需要数小时，请预留计算时间。';appendAssistant('网格已确认。请在右侧工作流中上传车身 .k 文件。组合求解通常需要数小时，具体耗时取决于模型规模、网格密度和计算资源。');
       }
       if(action==='back-partition'){setCurrent(1,'review')}
       if(action==='choose-body')$('bodyInput').click();
       if(action==='start-solve'){
         if(!state.body){toast('请先上传车身 K 文件');return}
+        $('chatStatusCopy').textContent='组合求解进行中，通常需要数小时，请耐心等待。';appendAssistant('已提交组合求解。求解通常需要数小时，具体耗时取决于模型规模、网格密度和计算资源。可在右侧查看执行进度；本页进度为模拟演示。');
         state.status[3]='running';
         simulate(3,'solve',6700,'done','组合 main.key · LS-DYNA · d3plot 健康检查',()=>{
           file('K',steps[3].file,'车身 + 气帘组合模型');file('D3','d3plot','LS-DYNA 求解结果');

diff --git a/docs/prototypes/curtain-airbag-workflow/index.html b/docs/prototypes/curtain-airbag-workflow/index.html
@@ -5,7 +5,7 @@
 </style></head><body><header><div class="eyebrow">CAE AGENT / WORKFLOW PREVIEW</div><h1>气帘仿真工作流 · 阶段完成态</h1><div class="header-bottom"><p>6 个阶段完成态 + 车身 K 文件就绪页。点击任意页面查看完整界面，可在顶部切换前后节点。<br>沿用当前项目三栏布局，左侧对话区是唯一的消息输入入口。</p><a class="top-link" href="01-igs-uploaded.html">从上传完成开始查看 →</a></div></header><main class="catalog"><a class="preview-card" href="01-igs-uploaded.html"><div class="card-image"><img src="previews/01-igs-uploaded.png" alt="IGS 上传完成界面" loading="lazy"></div><div class="card-copy"><div class="card-number">01</div><div class="card-title"><h2>IGS 上传完成</h2><p>IGS 文件已就绪。点击右侧“开始 AI 分区”继续。</p></div><span class="badge">等待分区</span><span class="open" aria-hidden="true">↗</span></div></a>
 <a class="preview-card" href="02-partition-completed.html"><div class="card-image"><img src="previews/02-partition-completed.png" alt="AI 分区完成界面" loading="lazy"></div><div class="card-copy"><div class="card-number">02</div><div class="card-title"><h2>AI 分区完成</h2><p>分区结果等待确认，网格任务尚未开始。</p></div><span class="badge">待确认分区</span><span class="open" aria-hidden="true">↗</span></div></a>
 <a class="preview-card" href="03-mesh-completed.html"><div class="card-image"><img src="previews/03-mesh-completed.png" alt="网格生成完成界面" loading="lazy"></div><div class="card-copy"><div class="card-number">03</div><div class="card-title"><h2>网格生成完成</h2><p>网格结果等待确认，求解阶段需要补充车身 K 文件。</p></div><span class="badge">待确认网格</span><span class="open" aria-hidden="true">↗</span></div></a>
-<a class="preview-card" href="04-body-k-ready.html"><div class="card-image"><img src="previews/04-body-k-ready.png" alt="车身 K 文件就绪界面" loading="lazy"></div><div class="card-copy"><div class="card-number">04</div><div class="card-title"><h2>车身 K 文件就绪</h2><p>车身与气帘文件已就绪，尚未提交求解。</p></div><span class="badge">等待提交求解</span><span class="open" aria-hidden="true">↗</span></div></a>
+<a class="preview-card" href="04-body-k-ready.html"><div class="card-image"><img src="previews/04-body-k-ready.png" alt="车身 K 文件就绪界面" loading="lazy"></div><div class="card-copy"><div class="card-number">04</div><div class="card-title"><h2>车身 K 文件就绪</h2><p>车身与气帘文件已就绪，求解通常需要数小时。</p></div><span class="badge">等待提交求解</span><span class="open" aria-hidden="true">↗</span></div></a>
 <a class="preview-card" href="05-solve-completed.html"><div class="card-image"><img src="previews/05-solve-completed.png" alt="组合求解完成界面" loading="lazy"></div><div class="card-copy"><div class="card-number">05</div><div class="card-title"><h2>组合求解完成</h2><p>求解已完成，可进入 HyperView 后处理。</p></div><span class="badge">等待后处理</span><span class="open" aria-hidden="true">↗</span></div></a>
 <a class="preview-card" href="06-postprocess-completed.html"><div class="card-image"><img src="previews/06-postprocess-completed.png" alt="HyperView 后处理完成界面" loading="lazy"></div><div class="card-copy"><div class="card-number">06</div><div class="card-title"><h2>HyperView 后处理完成</h2><p>后处理结果等待确认，报告尚未生成。</p></div><span class="badge">待确认结果</span><span class="open" aria-hidden="true">↗</span></div></a>
 <a class="preview-card" href="07-report-completed.html"><div class="card-image"><img src="previews/07-report-completed.png" alt="分析报告生成完成界面" loading="lazy"></div><div class="card-copy"><div class="card-number">07</div><div class="card-title"><h2>分析报告生成完成</h2><p>本轮工作流已完成。此页面展示模拟产物，支持导出流程摘要。</p></div><span class="badge">流程完成</span><span class="open" aria-hidden="true">↗</span></div></a></main><footer>界面原型 · 模型、截图、动画与报告文件均为模拟数据</footer></body></html>

diff --git a/skills/cae-airbag/SKILL.md b/skills/cae-airbag/SKILL.md
@@ -38,7 +38,8 @@ IGS文件 → [导入] → model.hm → [分区] → model_partitioned.hm
 **工具**: `mcp__cae__lsdyna_solve`
 - 输入: `airbag.key`
 - 推荐: `ncpu=4`，`memory=2000m`（根据机器配置调整）
-- 气帘典型仿真时间 30ms，求解耗时约 30–120 分钟（视网格密度和 CPU 数量）
+- **提交前主动提示用户**：求解通常需要数小时，具体耗时取决于模型规模、网格密度和计算资源，请预留足够的计算时间。
+- 提交后说明正在等待求解结果，基于实际工具状态汇报进度；没有实际进度数据时，不要承诺具体完成时间或编造进度。
 - 求解完成后检查 `d3plot` 文件是否生成
 - **若出现 *** Error**: 将 messag 文件内容转交给用户分析
 

diff --git a/docs/prototypes/curtain-airbag-workflow/README.md b/docs/prototypes/curtain-airbag-workflow/README.md
@@ -36,4 +36,5 @@ python3 -m http.server 8000
 - 执行按钮通过本地模拟展示处理进度和阶段动画；页面不会调用 HyperMesh MCP、求解器或 HyperView。
 - 文件选择只用于展示所选文件名，不读取文件内容，也不会上传文件。
 - 分区、网格和后处理保留用户确认环节；组合求解需要先选择车身 K 文件。
+- 提交求解前及求解运行中，在对话和操作区提示“求解通常需要数小时”，并说明耗时取决于模型规模、网格密度和计算资源；原型中的求解进度为模拟演示。
 - “导出模拟摘要 / 导出报告摘要”下载文本摘要；列表中的 `.hm`、`.k`、`d3plot`、GIF 和 PPTX 是产物占位。
